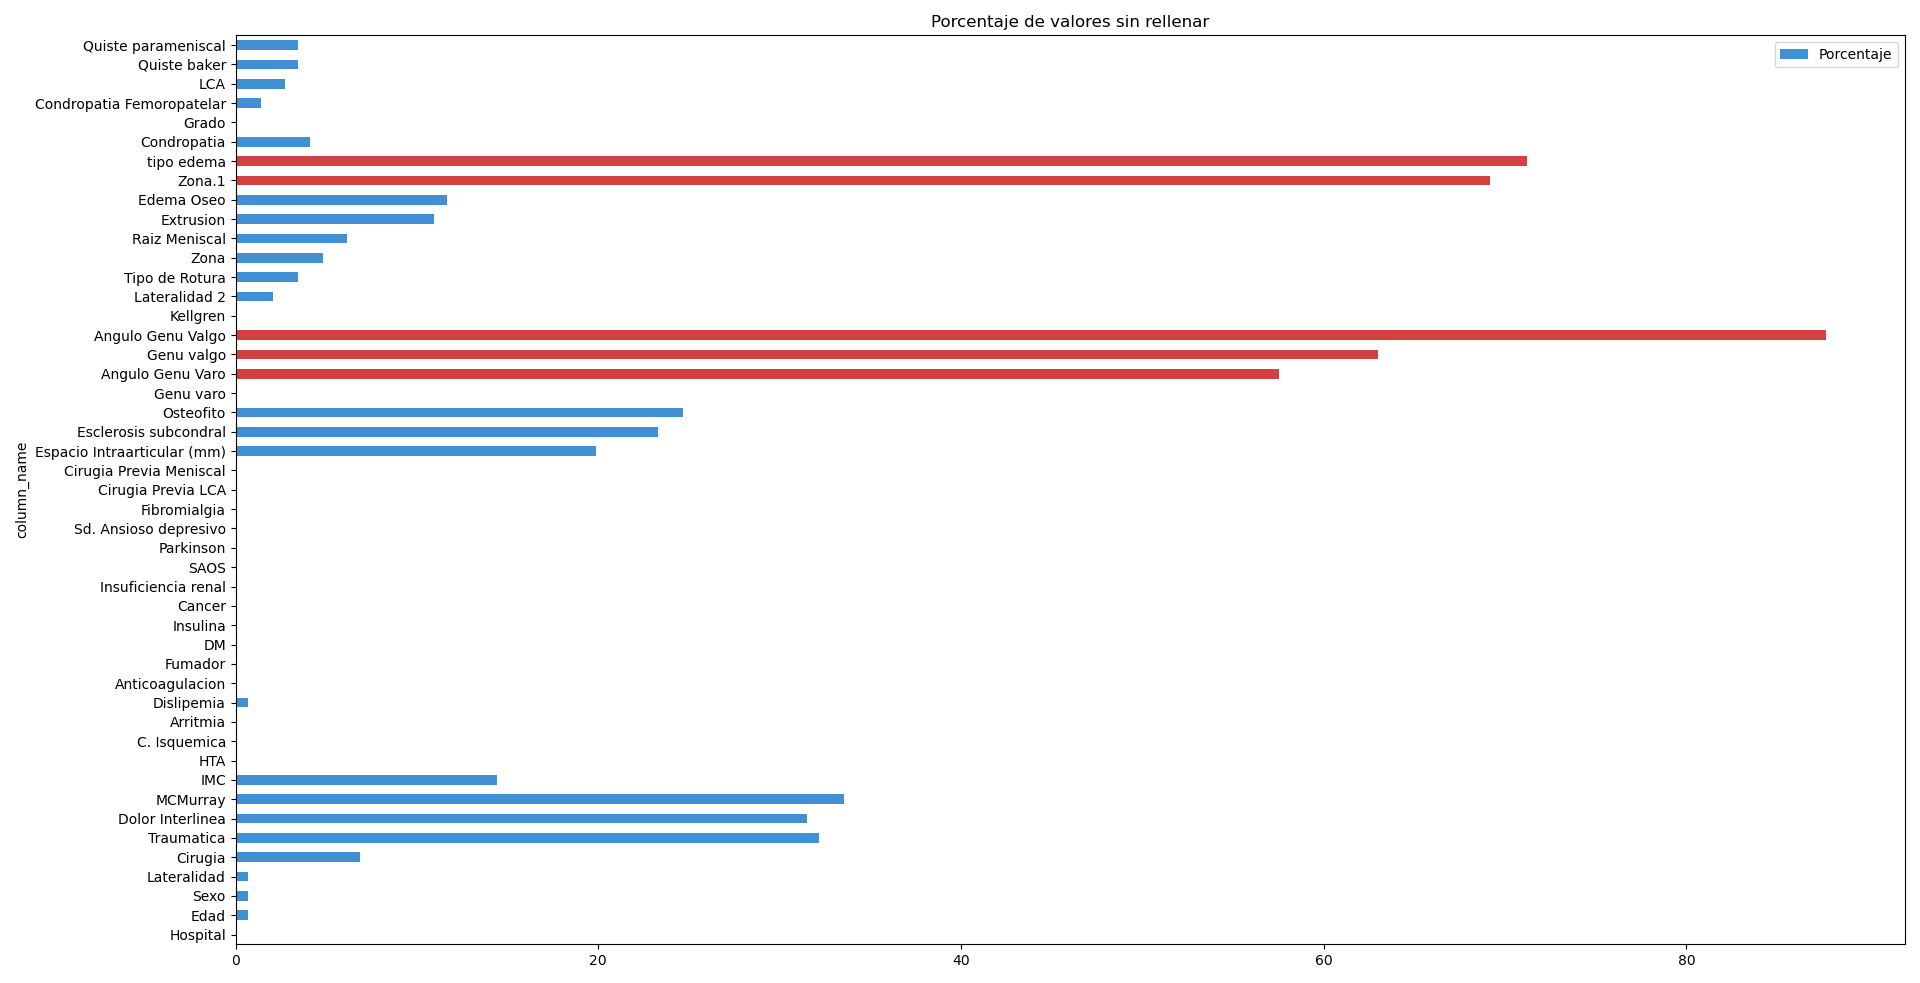
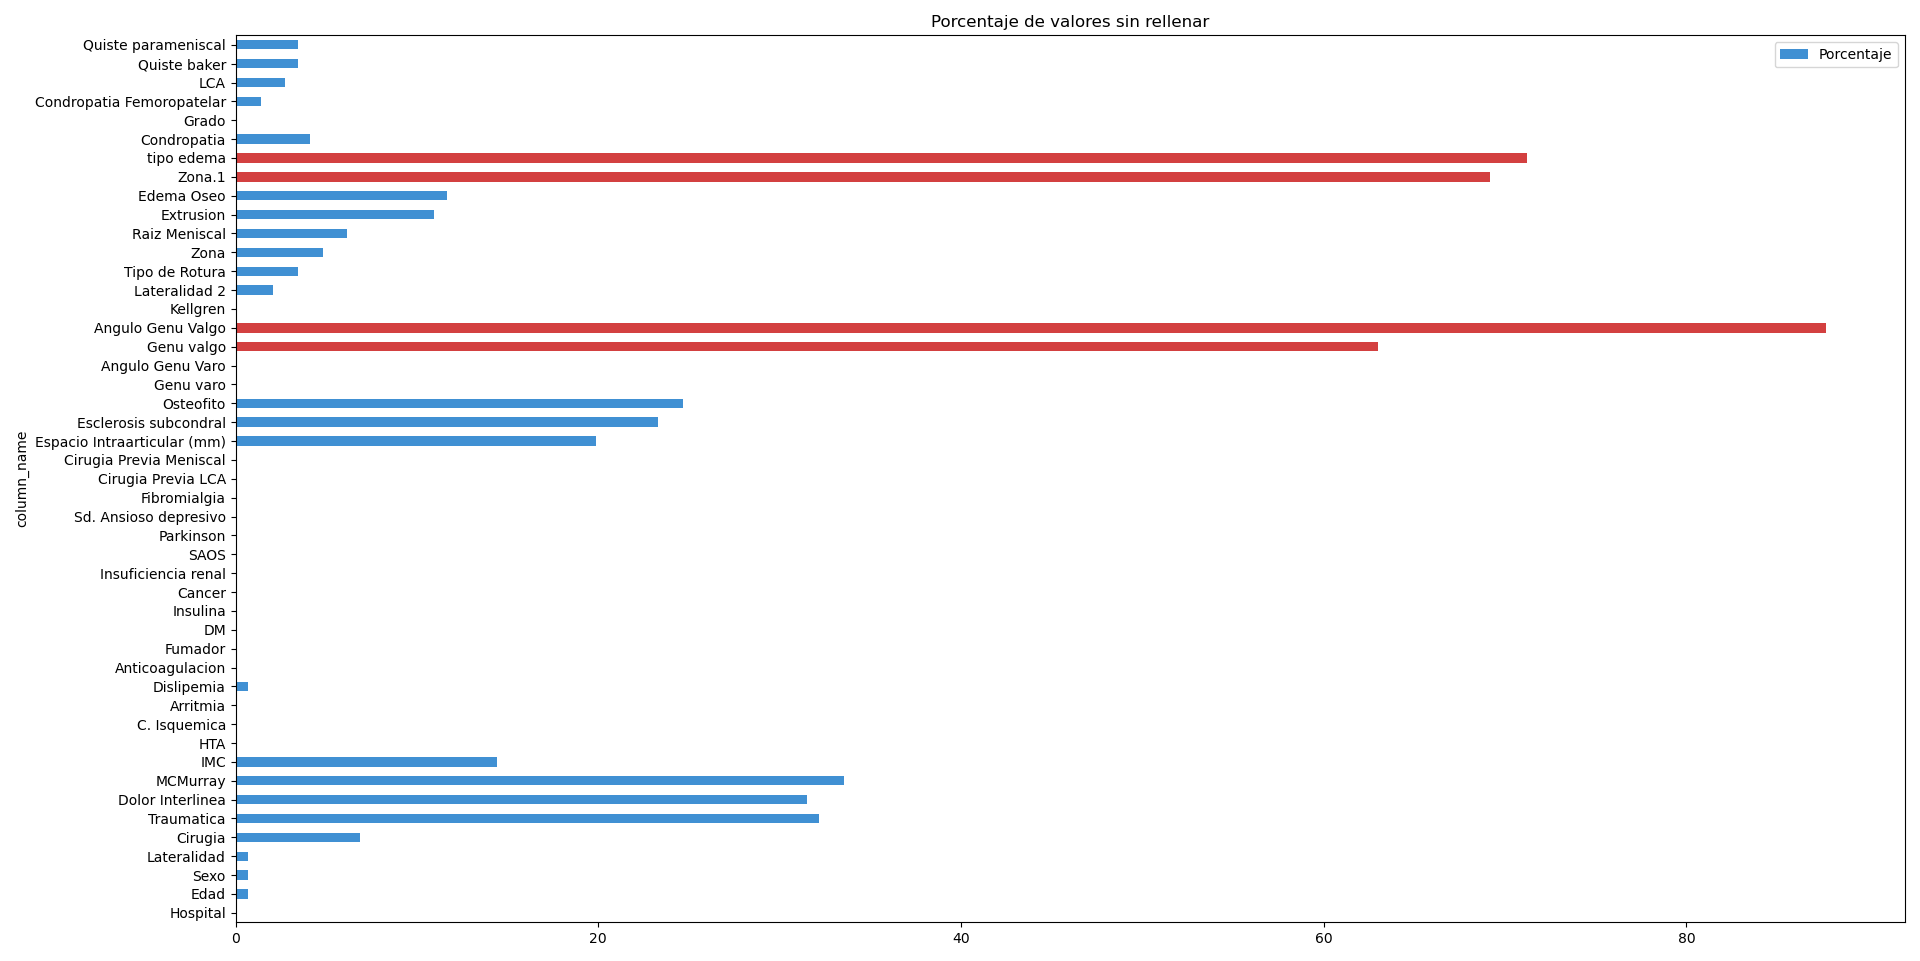
new graficas

diff --git a/data/data_processing.py b/data/data_processing.py
@@ -127,6 +127,7 @@ df_new['Genu varo'].fillna(value='NO', inplace=True)
 
 #COLUMNA Angulo Genu Varu
 df.loc[df['Genu varo'] == 'NO', 'Angulo Genu Varo'] = 0
+df_new['Angulo Genu Varo'].fillna(value= 0, inplace=True)
 
 #COLUMNA genu Valgo
 df.loc[df['Genu valgo'] == 'SI', 'Genu Valgo'] = 'NO'
